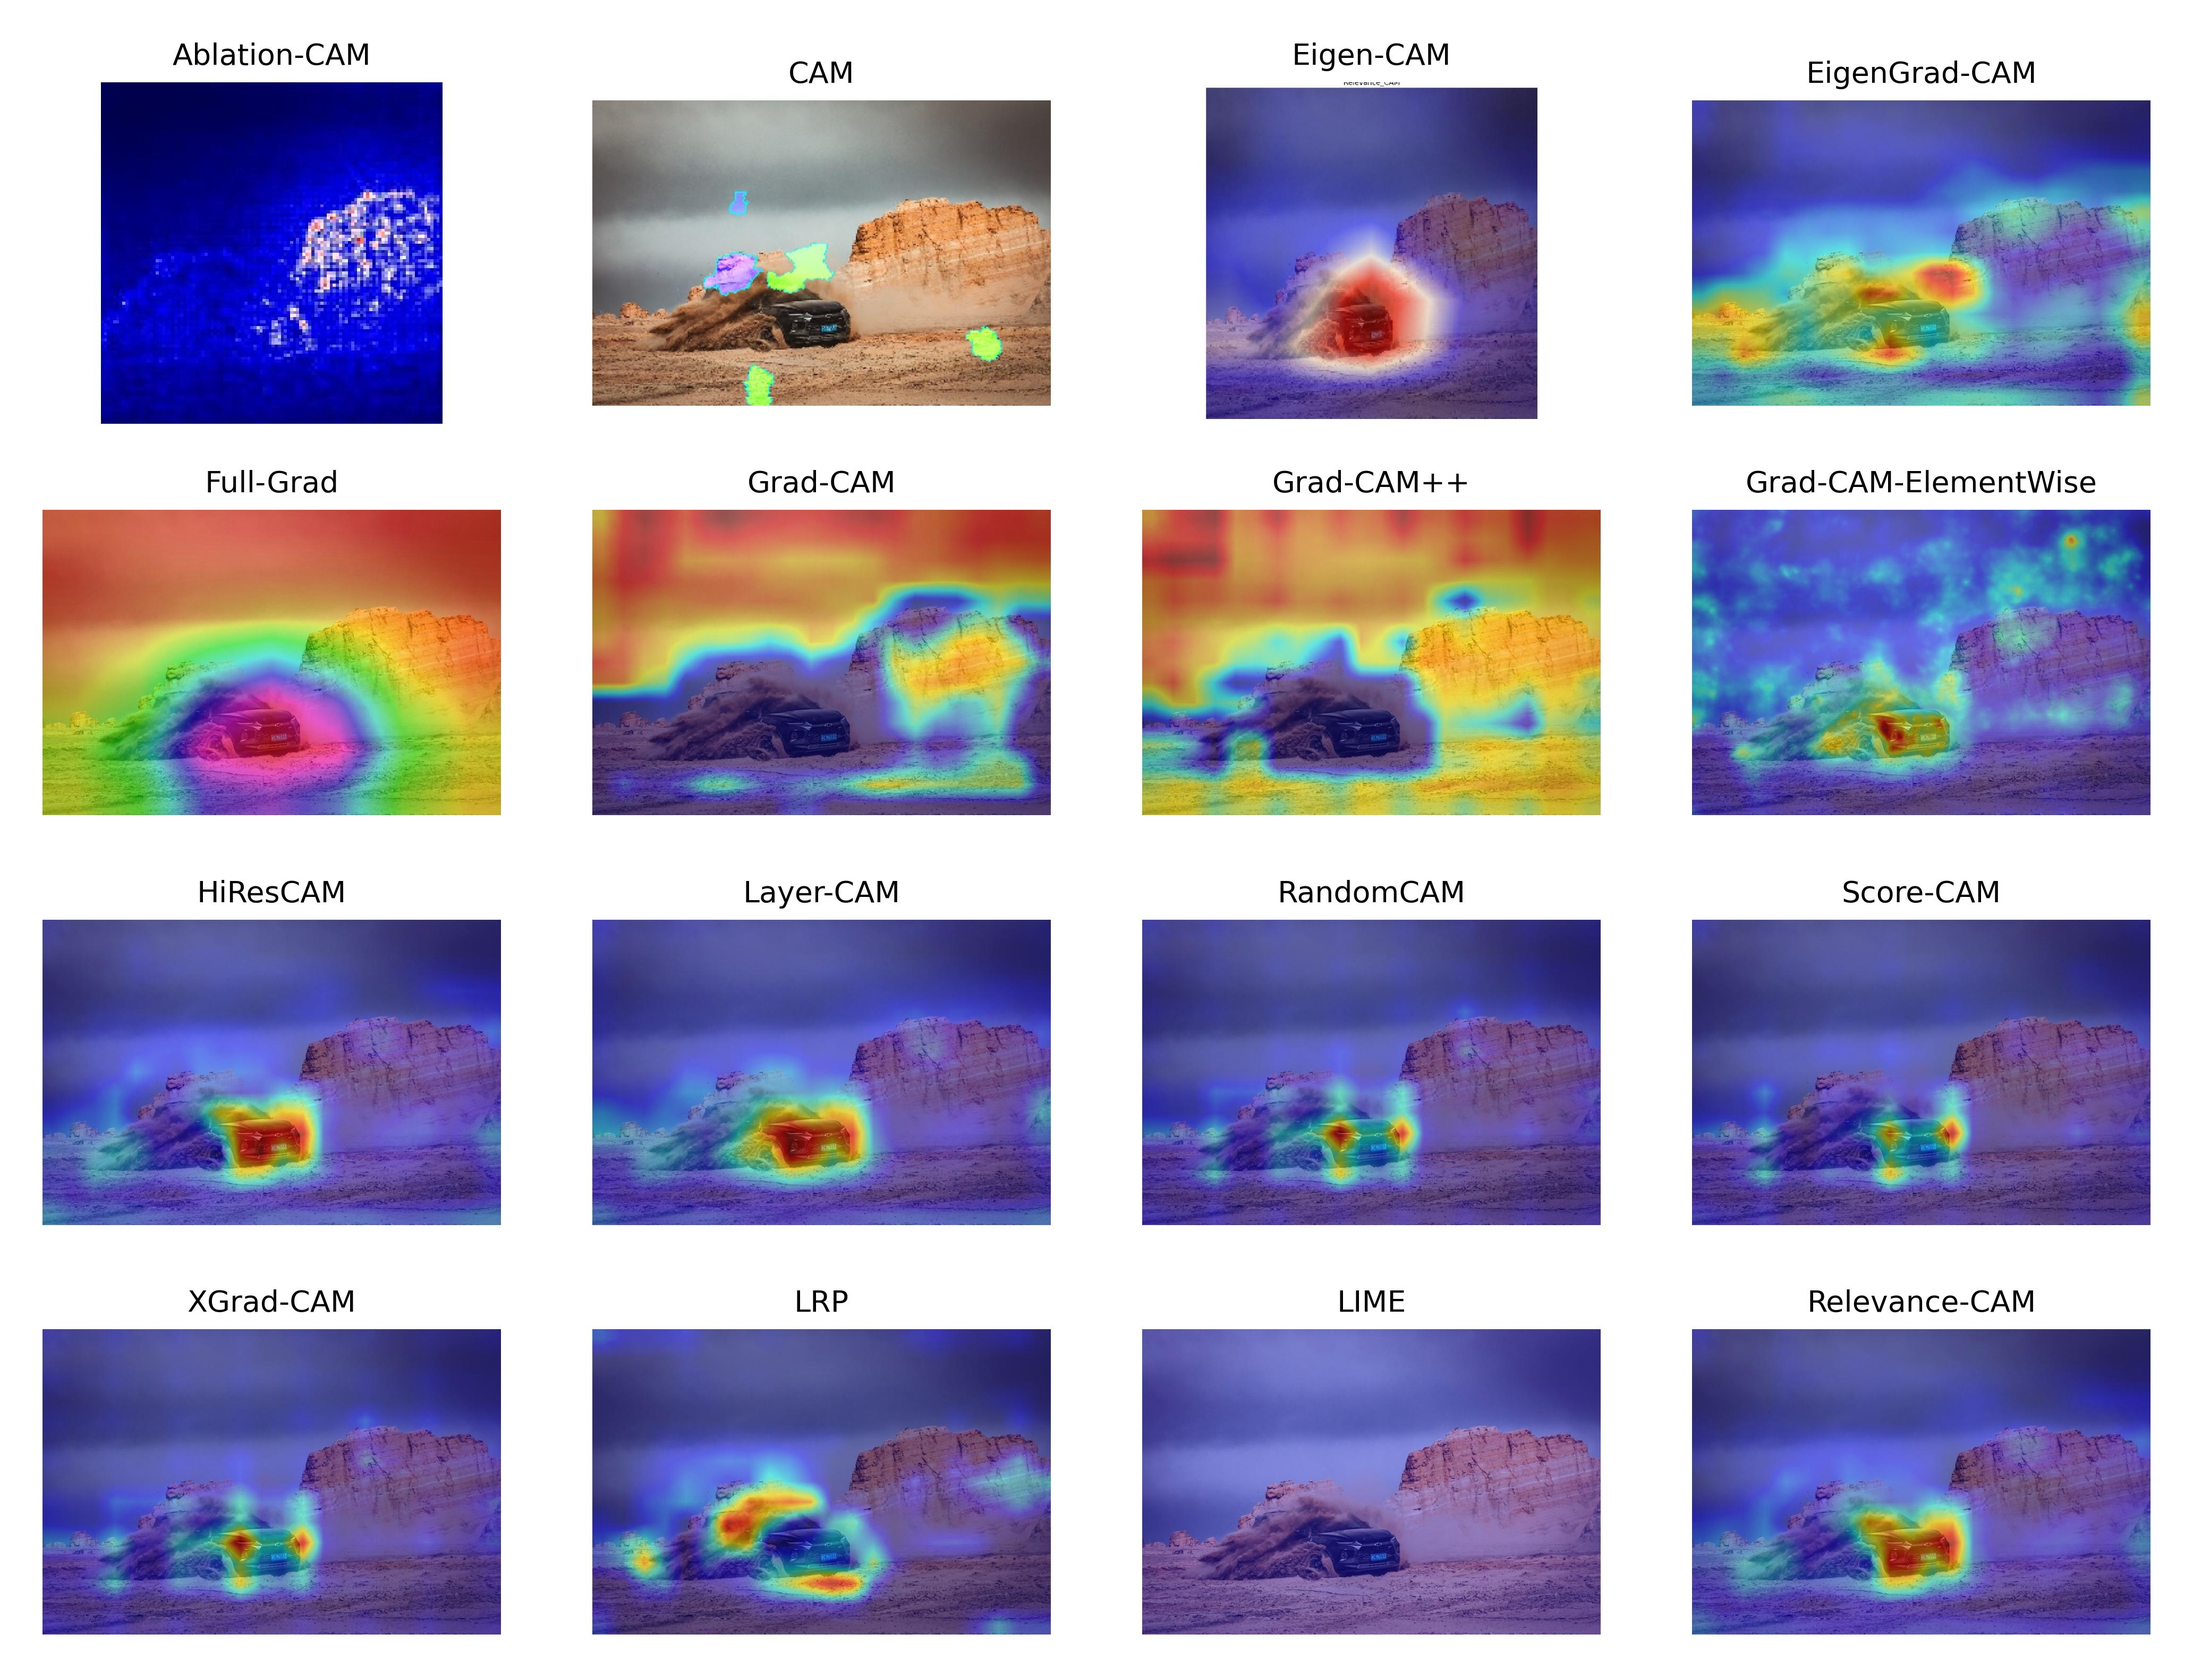
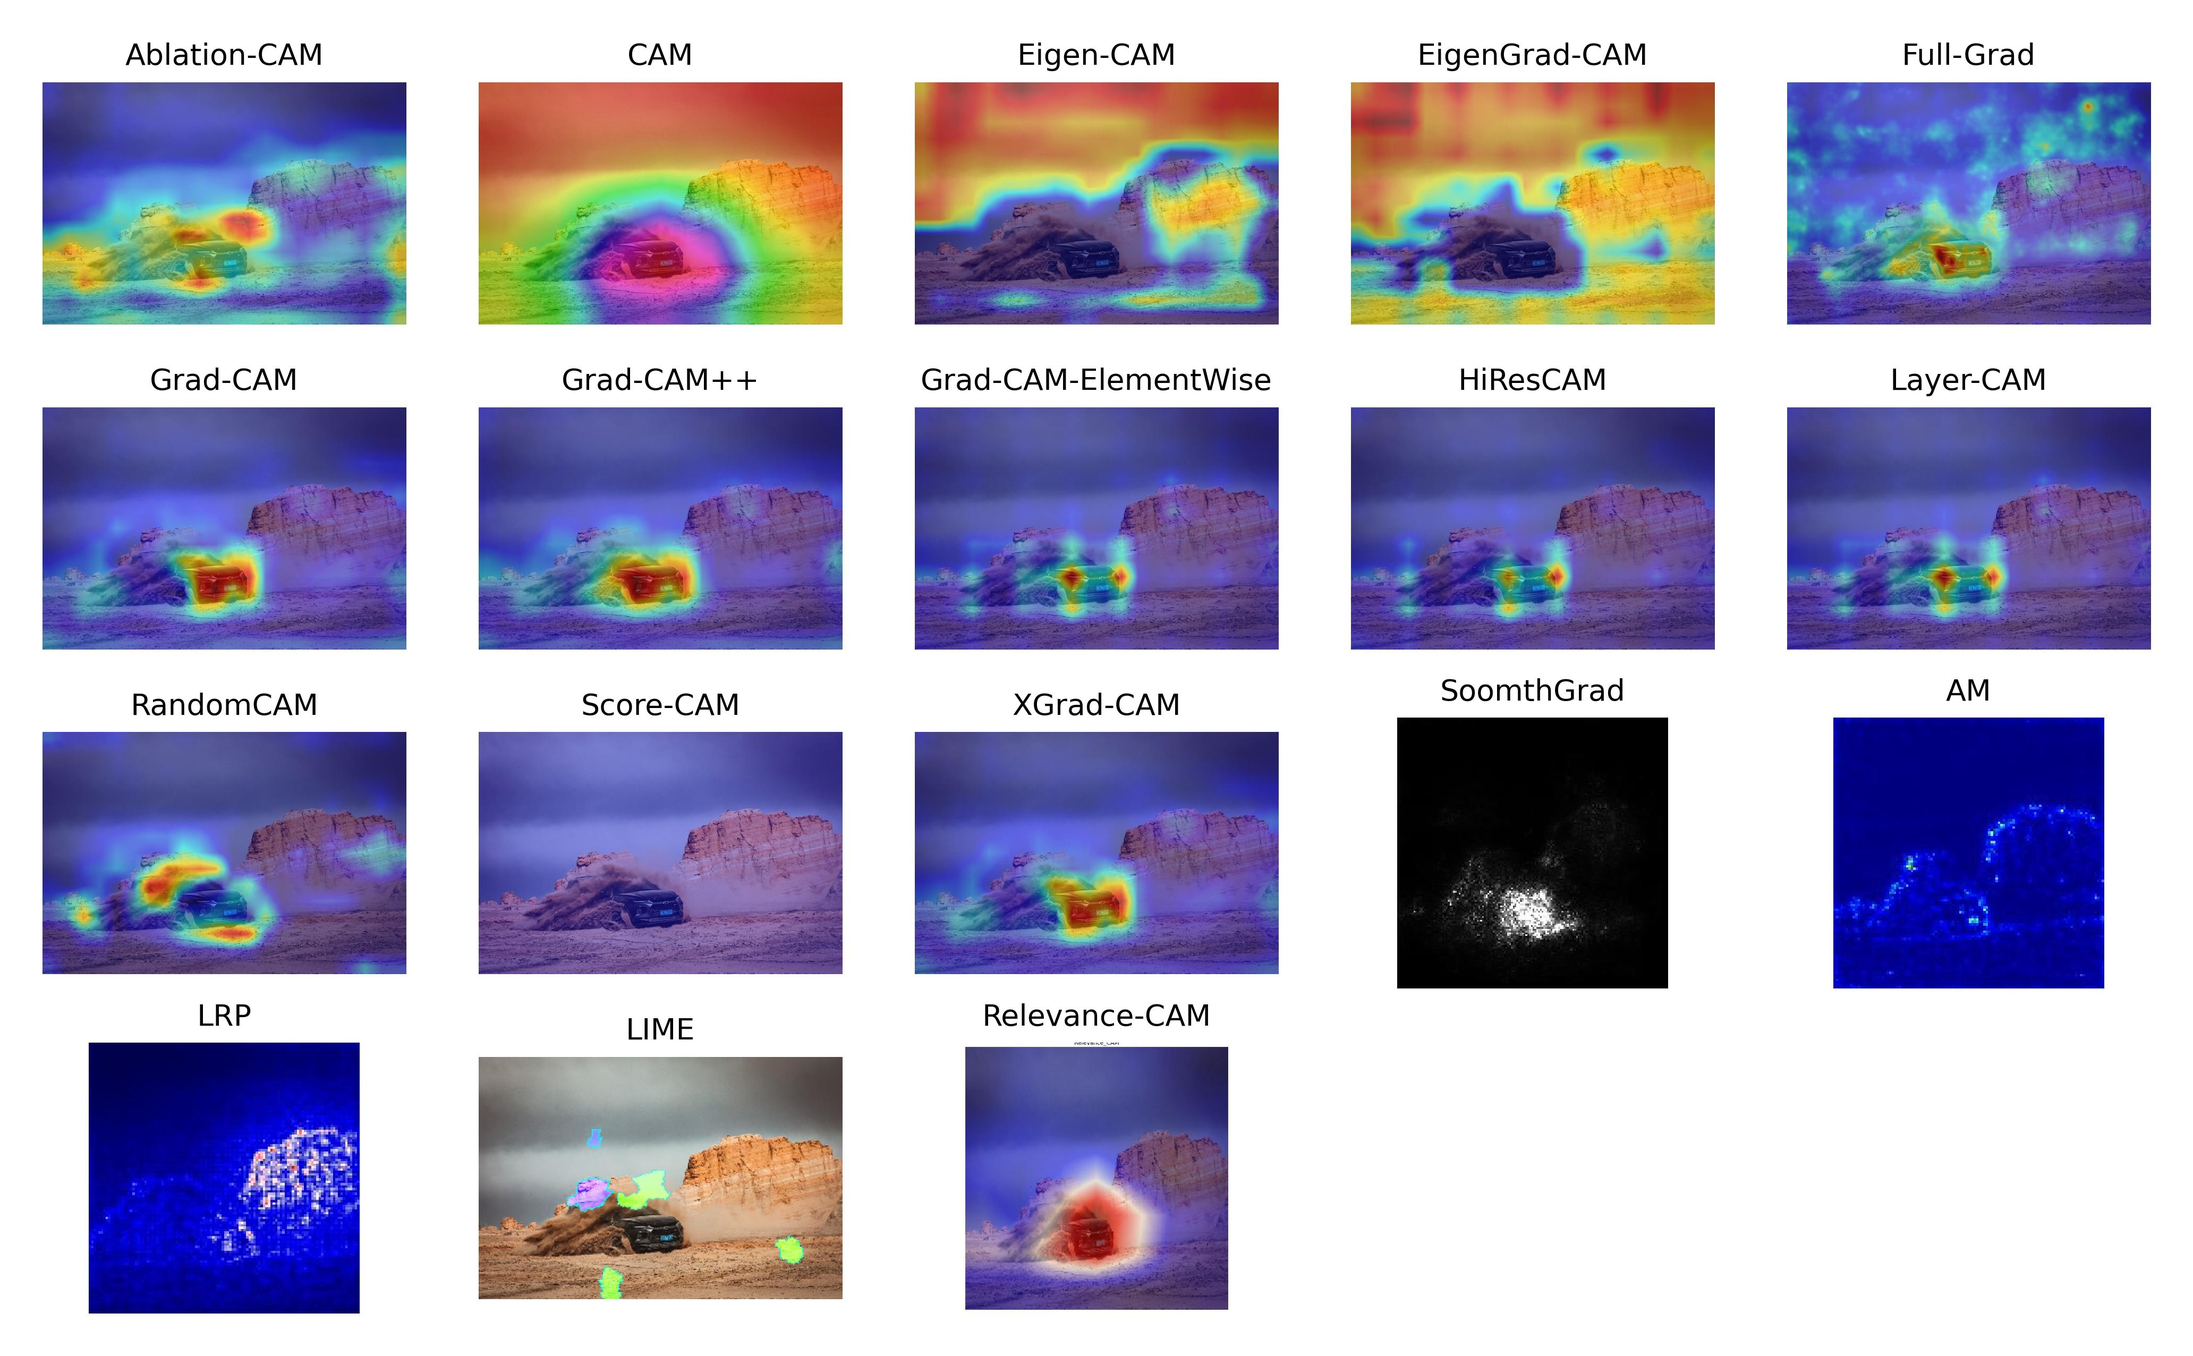
整合

diff --git a/SmoothGraad/SmoothGrad_vgg.py b/SmoothGraad/SmoothGrad_vgg.py
@@ -1,0 +1,95 @@
+import os
+import PIL.Image
+import numpy as np
+import matplotlib.pyplot as plt
+import torch
+from torchvision import models, transforms
+
+import saliency.core as saliency
+# 消除警告
+import warnings
+warnings.filterwarnings('ignore')
+
+def ShowImage(im, title='', ax=None):
+    if ax is None:
+        plt.figure()
+    plt.axis('off')
+    plt.imshow(im)
+    plt.title(title)
+
+def LoadImage(file_path):
+    im = PIL.Image.open(file_path)
+    im = im.resize((299, 299))
+    im = np.asarray(im)
+    return im
+
+transformer = transforms.Normalize((0.485, 0.456, 0.406), (0.229, 0.224, 0.225))
+def PreprocessImages(images):
+    images = np.array(images)
+    images = images/255
+    images = np.transpose(images, (0,3,1,2))
+    images = torch.tensor(images, dtype=torch.float32)
+    images = transformer.forward(images)
+    return images.requires_grad_(True)
+
+def conv_layer_forward(m, i, o):
+    # move the RGB dimension to the last dimension
+    conv_layer_outputs[saliency.base.CONVOLUTION_LAYER_VALUES] = torch.movedim(o, 1, 1).detach().numpy()
+def conv_layer_backward(m, i, o):
+    # move the RGB dimension to the last dimension
+    conv_layer_outputs[saliency.base.CONVOLUTION_OUTPUT_GRADIENTS] = torch.movedim(o[0], 1, 1).detach().numpy()
+
+def call_model_function(images, call_model_args=None, expected_keys=None):
+    images = PreprocessImages(images)
+    target_class_idx =  call_model_args[class_idx_str]
+    output = model(images)
+    m = torch.nn.Softmax(dim=1)
+    output = m(output)
+    if saliency.base.INPUT_OUTPUT_GRADIENTS in expected_keys:
+        outputs = output[:,target_class_idx]
+        grads = torch.autograd.grad(outputs, images, grad_outputs=torch.ones_like(outputs))
+        grads = torch.movedim(grads[0], 1, 3)
+        gradients = grads.detach().numpy()
+        return {saliency.base.INPUT_OUTPUT_GRADIENTS: gradients}
+    else:
+        one_hot = torch.zeros_like(output)
+        one_hot[:,target_class_idx] = 1
+        model.zero_grad()
+        output.backward(gradient=one_hot, retain_graph=True)
+        return conv_layer_outputs
+
+class_idx_str = 'class_idx_str'
+root_path = 'Images'
+output_path = "Results/SoomthGrad"
+
+if __name__ == "__main__":
+    if not os.path.isdir(output_path):
+        os.makedirs(output_path)
+    model = models.vgg19(pretrained=True)
+    eval_mode = model.eval()
+
+    conv_layer = model.classifier
+    conv_layer_outputs = {}
+    conv_layer.register_forward_hook(conv_layer_forward)
+    conv_layer.register_full_backward_hook(conv_layer_backward)
+    for img in os.listdir(root_path):
+        im_orig = LoadImage(os.path.join(root_path, img))
+        im_tensor = PreprocessImages([im_orig])
+
+        predictions = model(im_tensor)
+        predictions = predictions.detach().numpy()
+        prediction_class = np.argmax(predictions[0])
+        call_model_args = {class_idx_str: prediction_class}
+
+        print("Prediction class: " + str(prediction_class))  # Should be a doberman, class idx = 236
+        im = im_orig.astype(np.float32)
+
+        # Construct the saliency object. This alone doesn't do anthing.
+        gradient_saliency = saliency.GradientSaliency()
+
+        # Compute the vanilla mask and the smoothed mask.
+        smoothgrad_mask_3d = gradient_saliency.GetSmoothedMask(im, call_model_function, call_model_args)
+
+        # Call the visualization methods to convert the 3D tensors to 2D grayscale.
+        smoothgrad_mask_grayscale = saliency.VisualizeImageGrayscale(smoothgrad_mask_3d)
+        plt.imsave(os.path.join(output_path, "SoomthGrad_vgg_%s"%(img)), smoothgrad_mask_grayscale, cmap=plt.cm.gray)

diff --git a/SmoothGraad/SmoothGrad_resnet.py b/SmoothGraad/SmoothGrad_resnet.py
@@ -1,0 +1,95 @@
+import os
+import PIL.Image
+import numpy as np
+import matplotlib.pyplot as plt
+import torch
+from torchvision import models, transforms
+
+import saliency.core as saliency
+# 消除警告
+import warnings
+warnings.filterwarnings('ignore')
+
+def ShowImage(im, title='', ax=None):
+    if ax is None:
+        plt.figure()
+    plt.axis('off')
+    plt.imshow(im)
+    plt.title(title)
+
+def LoadImage(file_path):
+    im = PIL.Image.open(file_path)
+    im = im.resize((299, 299))
+    im = np.asarray(im)
+    return im
+
+transformer = transforms.Normalize((0.485, 0.456, 0.406), (0.229, 0.224, 0.225))
+def PreprocessImages(images):
+    images = np.array(images)
+    images = images/255
+    images = np.transpose(images, (0,3,1,2))
+    images = torch.tensor(images, dtype=torch.float32)
+    images = transformer.forward(images)
+    return images.requires_grad_(True)
+
+def conv_layer_forward(m, i, o):
+    # move the RGB dimension to the last dimension
+    conv_layer_outputs[saliency.base.CONVOLUTION_LAYER_VALUES] = torch.movedim(o, 1, 1).detach().numpy()
+def conv_layer_backward(m, i, o):
+    # move the RGB dimension to the last dimension
+    conv_layer_outputs[saliency.base.CONVOLUTION_OUTPUT_GRADIENTS] = torch.movedim(o[0], 1, 1).detach().numpy()
+
+def call_model_function(images, call_model_args=None, expected_keys=None):
+    images = PreprocessImages(images)
+    target_class_idx =  call_model_args[class_idx_str]
+    output = model(images)
+    m = torch.nn.Softmax(dim=1)
+    output = m(output)
+    if saliency.base.INPUT_OUTPUT_GRADIENTS in expected_keys:
+        outputs = output[:,target_class_idx]
+        grads = torch.autograd.grad(outputs, images, grad_outputs=torch.ones_like(outputs))
+        grads = torch.movedim(grads[0], 1, 3)
+        gradients = grads.detach().numpy()
+        return {saliency.base.INPUT_OUTPUT_GRADIENTS: gradients}
+    else:
+        one_hot = torch.zeros_like(output)
+        one_hot[:,target_class_idx] = 1
+        model.zero_grad()
+        output.backward(gradient=one_hot, retain_graph=True)
+        return conv_layer_outputs
+
+class_idx_str = 'class_idx_str'
+root_path = 'Images'
+output_path = "Results/SoomthGrad"
+
+if __name__ == "__main__":
+    if not os.path.isdir(output_path):
+        os.makedirs(output_path)
+    model = models.resnet50(pretrained=True)
+    eval_mode = model.eval()
+
+    conv_layer = model.fc
+    conv_layer_outputs = {}
+    conv_layer.register_forward_hook(conv_layer_forward)
+    conv_layer.register_full_backward_hook(conv_layer_backward)
+    for img in os.listdir(root_path):
+        im_orig = LoadImage(os.path.join(root_path, img))
+        im_tensor = PreprocessImages([im_orig])
+
+        predictions = model(im_tensor)
+        predictions = predictions.detach().numpy()
+        prediction_class = np.argmax(predictions[0])
+        call_model_args = {class_idx_str: prediction_class}
+
+        print("Prediction class: " + str(prediction_class))  # Should be a doberman, class idx = 236
+        im = im_orig.astype(np.float32)
+
+        # Construct the saliency object. This alone doesn't do anthing.
+        gradient_saliency = saliency.GradientSaliency()
+
+        # Compute the vanilla mask and the smoothed mask.
+        smoothgrad_mask_3d = gradient_saliency.GetSmoothedMask(im, call_model_function, call_model_args)
+
+        # Call the visualization methods to convert the 3D tensors to 2D grayscale.
+        smoothgrad_mask_grayscale = saliency.VisualizeImageGrayscale(smoothgrad_mask_3d)
+        plt.imsave(os.path.join(output_path, "SoomthGrad_resnet_%s"%(img)), smoothgrad_mask_grayscale, cmap=plt.cm.gray)

diff --git a/AM/AM_resnet50.py b/AM/AM_resnet50.py
@@ -1,0 +1,51 @@
+from vis.utils import utils
+from keras import activations
+from vis.visualization import visualize_saliency
+
+import os
+from PIL import Image
+from matplotlib import pyplot as plt
+from keras.applications import ResNet50
+# 消除警告
+import warnings
+warnings.filterwarnings('ignore')
+# 选择是否展示
+is_show   = False
+# 测试图片路径
+root_path = 'Images'
+# 保存图片路径
+output_path = 'Results/AM'
+# 创建ResNet50模型
+model     = ResNet50(weights='imagenet', include_top=True)
+# 取出模型中某层的索引
+layer_idx = utils.find_layer_idx(model, 'fc1000')
+
+# 交换Softmax和线性层
+model.layers[layer_idx].activation = activations.linear
+model = utils.apply_modifications(model)
+
+def path_join(*path):
+    join_path = path[0]
+    for index in range(1, len(path)):
+        join_path = os.path.join(join_path, path[index])
+    return join_path.replace('\\', '/')
+if __name__ == "__main__":
+    # 检查保存文件夹是否存在
+    if not os.path.isdir(output_path):
+        os.makedirs(output_path)
+    for i, img in enumerate(os.listdir(root_path)):
+        img = utils.load_img(path_join(root_path, img),target_size=(224, 224))
+        for modifier in ['guided', 'relu']:
+            plt.suptitle(modifier)
+            # 20是对应于ouzel的模型索引
+            grads = visualize_saliency(
+                model,
+                layer_idx,
+                filter_indices=20,
+                seed_input=img,
+                backprop_modifier=modifier
+            )
+            grads = Image.fromarray(grads)
+            if is_show:
+                grads.show()
+            grads.save(path_join(output_path, "%s_resnet50_%d.JPEG"%(modifier, i+1)))

diff --git a/AM/AM_vgg19.py b/AM/AM_vgg19.py
@@ -1,0 +1,51 @@
+from keras import activations
+from keras.applications import VGG19
+from vis.utils import utils
+from vis.visualization import visualize_saliency
+
+import os
+from PIL import Image
+from matplotlib import pyplot as plt
+import warnings
+warnings.filterwarnings('ignore')
+
+# 选择是否展示
+is_show   = False
+# 测试图片路径
+root_path = 'Images'
+# 保存图片路径
+output_path = 'Results/AM'
+# 实例化VGG19模型
+model = VGG19(weights='imagenet', include_top=True)
+# 取出模型中某层的索引
+layer_idx = utils.find_layer_idx(model, 'predictions')
+
+# 交换Softmax和线性层
+model.layers[layer_idx].activation = activations.linear
+model = utils.apply_modifications(model)
+
+def path_join(*path):
+    join_path = path[0]
+    for index in range(1, len(path)):
+        join_path = os.path.join(join_path, path[index])
+    return join_path.replace('\\', '/')
+if __name__ == "__main__":
+    # 检查保存文件夹是否存在
+    if not os.path.isdir(output_path):
+        os.makedirs(output_path)
+    for i, img in enumerate(os.listdir(root_path)):
+        img = utils.load_img(path_join(root_path, img),target_size=(224, 224))
+        for modifier in ['guided', 'relu']:
+            plt.suptitle(modifier)
+            # 20是对应于ouzel的模型索引
+            grads = visualize_saliency(
+                model,
+                layer_idx,
+                filter_indices=20,
+                seed_input=img,
+                backprop_modifier=modifier
+            )
+            grads = Image.fromarray(grads)
+            if is_show:
+                grads.show()
+            grads.save(path_join(output_path, "%s_vgg19_%d.JPEG"%(modifier, i+1)))

diff --git a/IG/IG.py b/IG/IG.py
@@ -1,11 +1,9 @@
-import torch
-import torch.nn.functional as F
-
-from PIL import Image
-
 import json
 import numpy as np
+from PIL import Image
 
+import torch
+import torch.nn.functional as F
 from torchvision import models
 from torchvision import transforms
 

diff --git a/README.md b/README.md
@@ -40,18 +40,19 @@ LRP
 
 新方法
 
-- [ ] Activation Maximization
+- [x] Activation Maximization
 - [ ] Performing AM in Code Space
 - [ ] Sensitivity Analysis（Pytorch）
 - [ ] Simple Taylor Decomposition
-- [ ] Layer-wise Relevance Propagation
+- [ ] Layer-wise Relevance Propagation（没有实现）
 - [ ] Deep Taylor Decomposition
 - [ ] DeepLift（Pytorch/TensorFlow）【False，似乎不支持比较复杂的模型】
 - [ ] Deconvolution（Pytorch）【False】
 - [ ] Backpropagation
 - [ ] Guided Backpropagation（Pytorch）
 - [ ] SmoothGrad
-- [ ] Class Activation Map
+- [ ] Explanation Continuity
+- [ ] Explanation Selectivity
 
 ## 样本阐述
 
